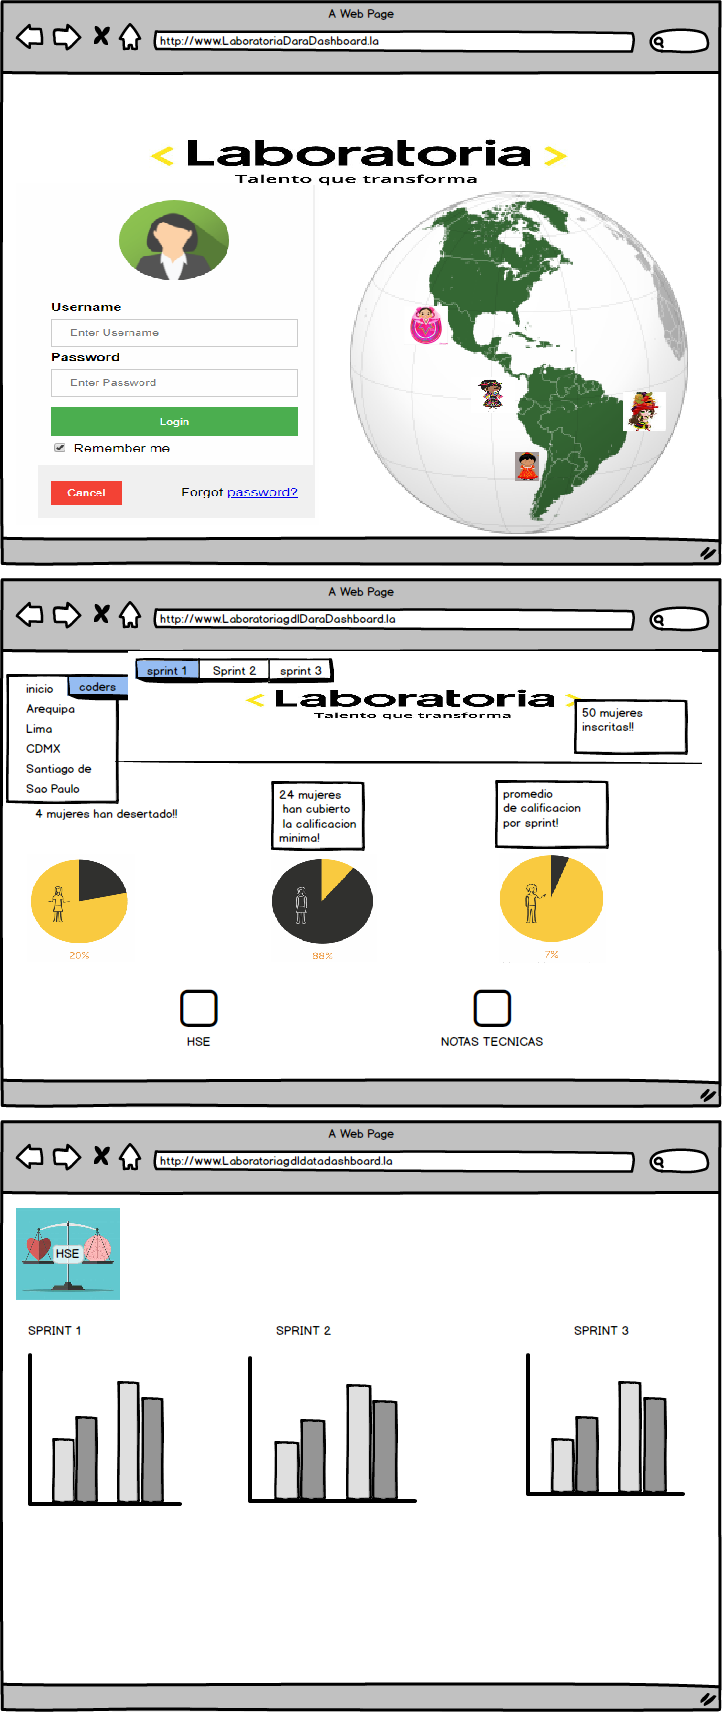
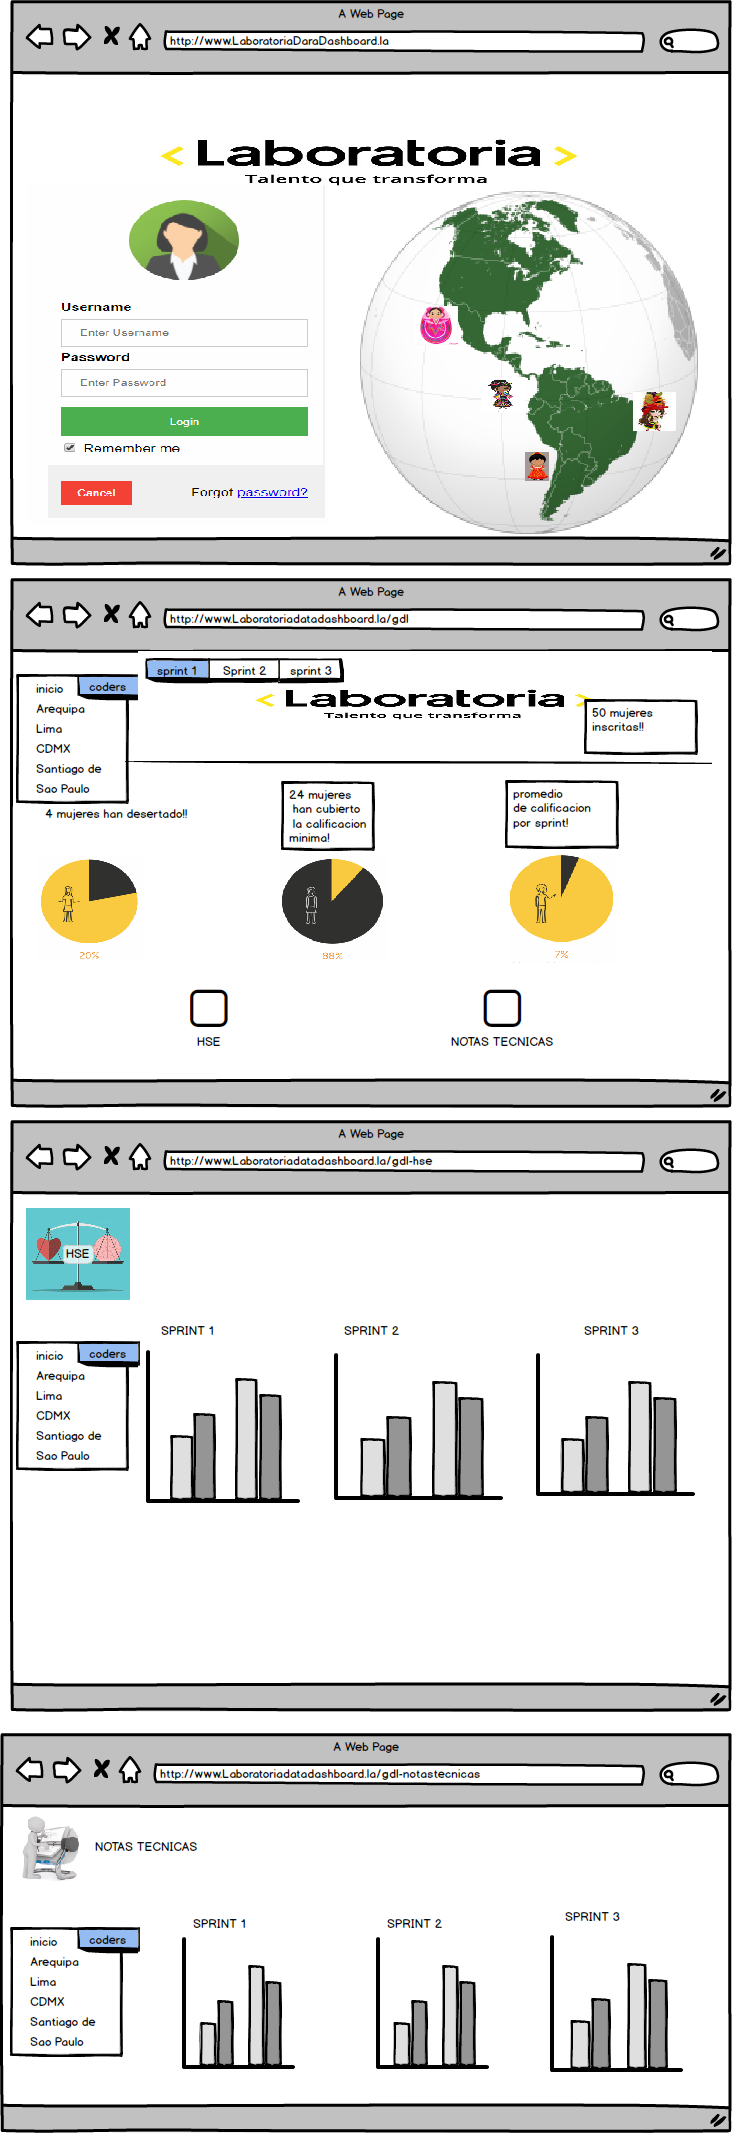
Orchid's update of mockup and information about the solution proposals

diff --git a/README.md b/README.md
@@ -67,6 +67,26 @@ Las usuarias, principalmente las Training Managers coinciden en que aunque hasta
 
 ## IDEACIÓN
 #### PROPUESTAS DE SOLUCIONES
+Se propone una aplicación amigable tipo **Dashboard** dirigido a las **Training Managers**, la cual les permita monitorear a cada una de las coders inscritas en **LABORATORIA**.
+Cada Training manager tendrá un usuario y contraseña que le permitirá hacer el **Dashboard** mas personalizado.
+Al ingresar podrá seleccionar la sede.
+En la primer página ELLE la saludará, le dará la hora, y le preguntará cuáles son los 3 objetivos principales de su día. También tendrá un botón de empezar el cuál llevará al usuario a otra página donde podrá observar de manera gráfica el número de estudiantes activas, estudiantes que desertaron, estudiantes que han cubierto la calificación mínima aprobatoria y promedio; la calificación del sprint que se está cursando, también podrá seleccionar sprints pasados.
+En esta página tambien puede accesar mediante un botón a los datos de **HSE** y **Notas Técnicas**
+La página de **HSE** nos muestra mediante graficas los puntos que se califican como son:
+    
+    * Asistencia.
+    * Comunicación.
+    * Manejo de estrés.
+    * Puntualidad.
+    * Trabajo en equipo.
+Del sprint que se esta trabajando así como la evolución a lo largo del bootcamp.
+Por último tenemos la página de **Notas Técnicas** aquí podremos medir por sprint el avance de nuestras coders en los siguientes puntos:
+    
+    * Quizzes.
+    * Requizzes.
+    * Retos.
+    * Productos.
+    
 ![Soluciones del Problema](assets/images/README/mindmap2.png)
 
 ---
